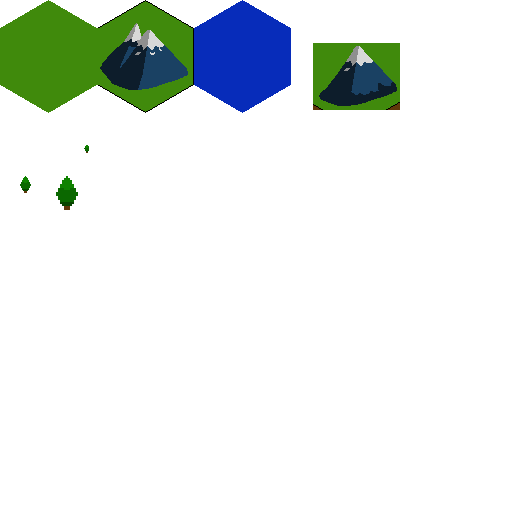
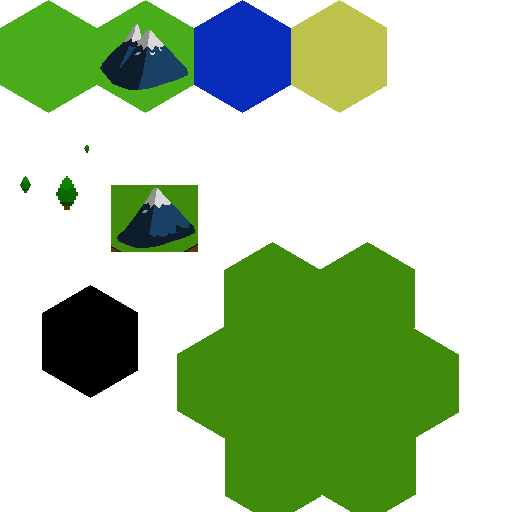
Added continent generation, added beach tile, cleaned up static declaraction of hex dictionaries

diff --git a/Strategos/MapGenerator.cs b/Strategos/MapGenerator.cs
@@ -4,17 +4,16 @@ using System.Linq;
 using System.Text;
 using System.Threading.Tasks;
 
-
 public class MapGenerator
 {
-    
+
     private static Dictionary<double, TileType> tileNoiseLookup = new Dictionary<double, TileType>
     {
-        {0.10, TileType.Grass},
+        {0.25, TileType.Grass},
         {1.00, TileType.Water},
     };
 
-    public static void GenerateHexes(HexStorage hexStorage, int radius)
+    public static void GenerateHexesNoise(HexStorage hexStorage, int radius)
     {
         PerlinNoise Noise = new PerlinNoise(Strategos.noiseRepeat);
         Random rand = new Random(Strategos.noiseSeed);
@@ -25,25 +24,112 @@ public class MapGenerator
         {
             for (int j = -radius; radius > j; j++)
             {
-
                 hex = new Hex(i, j);
-                double noise = Noise.Noise(j, i, rand);
+                double noise = Noise.Noise(j * 105, i * 152, rand);
+                noise %= 1.0;
                 hex.Type = DetermineTileType(noise);
                 hexStorage.AddHex(hex);
             }
         }
         hexStorage.UpdateMinMax();
     }
+    public static void GenerateHexesSplats(HexStorage hexStorage)
+    {
+        Random random = new Random();
+
+        int numSplats = random.Next(5, 15);
+        //int numSplats = 1;
+        for (int i = 0; i < numSplats; i++)
+        {
+            int radius = random.Next(2, 6);
+            int qOffset = random.Next(-10, 10);
+            int rOffset = random.Next(-5, 5);
+            CreateHexCircle(qOffset, rOffset, hexStorage, radius);
+        }
+        GenerateWaterInCircle(0, 0, hexStorage, 150);
+        CreateBeaches(hexStorage);
+    }
+    public static void GenerateWater(HexStorage hexStorage, int radius)
+    {
+        PerlinNoise Noise = new PerlinNoise(Strategos.noiseRepeat);
+        Random rand = new Random(Strategos.noiseSeed);
+        Hex hex = new Hex(0, 0);
+        hexStorage.AddHex(hex);
+
+        for (int i = -radius; radius > i; i++)
+        {
+            for (int j = -radius; radius > j; j++)
+            {
+                hex = new Hex(i, j);
+                hex.Type = TileType.Water;
+                hexStorage.AddHex(hex);
+            }
+        }
+        hexStorage.UpdateMinMax();
+    }
+    public static void CreateHexCircle(int q, int r, HexStorage hexStorage, int radius)
+    {
+        List<Cube> cubes = Cube.CubesInRange(new Cube(q, r, -q -r), radius);
+        Hex hex = new Hex(r, q);
+        hex.Type = TileType.Grass;
+        hexStorage.AddHex(hex);
+
+        foreach (Cube cube in cubes)
+        {
+            hex = new Hex((int)cube.Q, (int)cube.R);
+            hex.Type = TileType.Grass;
+            hexStorage.AddHex(hex);
+        }
+        hexStorage.UpdateMinMax();
+    }
+    public static void GenerateWaterInCircle(int q, int r, HexStorage hexStorage, int radius)
+    {
+        List<Cube> cubes = Cube.CubesInRange(new Cube(q, r, -q - r), radius);
+        Hex hex = new Hex(q, r);
+        hex.Type = TileType.Water;
+        hexStorage.AddHex(hex);
+        foreach (Cube cube in cubes)
+        {
+            if (hexStorage.GetHex((int)cube.Q, (int)cube.R, (int)cube.S) != null)
+            {
+                continue;
+            }
+            hex = new Hex((int)cube.Q, (int)cube.R);
+            hex.Type = TileType.Water;
+            hexStorage.AddHex(hex);
+        }
+        hexStorage.UpdateMinMax();
+    }
     private static TileType DetermineTileType(double noise)
     {
-        foreach (var entry in tileNoiseLookup)
+        foreach (KeyValuePair<double, TileType> entry in tileNoiseLookup)
         {
             if (noise <= entry.Key)
             {
                 return entry.Value;
             }
         }
-        return TileType.Grass;
+        return TileType.Water;
+    }
+    public static void CreateBeaches(HexStorage hexStorage)
+    {
+        foreach (var key in hexStorage.Hexes.Keys)
+        {
+            if (hexStorage.Hexes[key].Type == TileType.Water)
+            {
+                foreach (Direction direction in Enum.GetValues(typeof(Direction)))
+                {
+                    if (hexStorage.Hexes[key].HasNeighbor(direction, hexStorage))
+                    {
+                        Hex neighbor = hexStorage.Hexes[key].GetNeighbor(direction, hexStorage);
+                        if (neighbor.Type == TileType.Grass)
+                        {
+                            neighbor.Type = TileType.Beach;
+                        }
+                    }
+                }
+            }
+        }
     }
 }
 

diff --git a/Strategos/Hex.cs b/Strategos/Hex.cs
@@ -16,7 +16,7 @@ public class Hex
         Sprite.TextureRect = tileIntRect[Type];
     }
     public Sprite Sprite { get; set; }
-    public Text DebugText = new Text("", Strategos.font);
+    //public Text DebugText = new Text("", Strategos.font);
     public static Dictionary<Direction, Cube> directionDictionary { get; set; }
     public static Dictionary<TileType, IntRect> tileIntRect { get; set; }
     public static Dictionary<TileType, bool> tilePassable { get; set;}
@@ -29,29 +29,31 @@ public class Hex
         Sprite.Origin = new Vector2f(0, 0);
         Sprite.Position = CubeToPixel(new Cube(Q, R, S)) - new Vector2f(Strategos.TILE_WIDTH / 2, Strategos.TILE_HEIGHT / 2);
         
-        DebugText = new Text($"Q:{Q} R:{R} S:{S}", Strategos.font, 12);
-        DebugText.Position = Sprite.Position + new Vector2f(5, 40);
-        DebugText.FillColor = Color.Black;    
+        //DebugText = new Text($"Q:{Q} R:{R} S:{S}", Strategos.font, 12);
+        //DebugText.Position = Sprite.Position + new Vector2f(5, 40);
+        //DebugText.FillColor = Color.Black;    
     }
     static Hex()
     {
         directionDictionary = new Dictionary<Direction, Cube>();
-        directionDictionary.Add(Direction.NW, new Cube(0, -1, 1));
-        directionDictionary.Add(Direction.NE, new Cube(1, -1, 0));
-        directionDictionary.Add(Direction.E, new Cube(1, 0, -1));
-        directionDictionary.Add(Direction.SE, new Cube(0, 1, -1));
-        directionDictionary.Add(Direction.SW, new Cube(-1, 1, 0));
-        directionDictionary.Add(Direction.W, new Cube(-1, 0, 1));
+        directionDictionary[Direction.NW] =  new Cube(0, -1, 1);
+        directionDictionary[Direction.NE] = new Cube(1, -1, 0);
+        directionDictionary[Direction.E] = new Cube(1, 0, -1);
+        directionDictionary[Direction.SE] = new Cube(0, 1, -1);
+        directionDictionary[Direction.SW] = new Cube(-1, 1, 0);
+        directionDictionary[Direction.W] = new Cube(-1, 0, 1);
 
         tileIntRect = new Dictionary<TileType, IntRect>();
-        tileIntRect.Add(TileType.Grass, new IntRect(0, 0, Strategos.TILE_WIDTH + 2, Strategos.TILE_HEIGHT + 2));
-        tileIntRect.Add(TileType.Mountain, new IntRect(97, 0, Strategos.TILE_WIDTH + 2, Strategos.TILE_HEIGHT + 2));
-        tileIntRect.Add(TileType.Water, new IntRect(194, 0, Strategos.TILE_WIDTH + 2, Strategos.TILE_HEIGHT + 2));
+        tileIntRect[TileType.Grass] = new IntRect(0, 0, Strategos.TILE_WIDTH + 2, Strategos.TILE_HEIGHT + 2);
+        tileIntRect[TileType.Mountain] = new IntRect(97, 0, Strategos.TILE_WIDTH + 2, Strategos.TILE_HEIGHT + 2);
+        tileIntRect[TileType.Water] = new IntRect(194, 0, Strategos.TILE_WIDTH + 2, Strategos.TILE_HEIGHT + 2);
+        tileIntRect[TileType.Beach] = new IntRect(291, 0, Strategos.TILE_WIDTH + 2, Strategos.TILE_HEIGHT + 2);
 
         tilePassable = new Dictionary<TileType, bool>();
         tilePassable[TileType.Grass] = true;
         tilePassable[TileType.Mountain] = false;
         tilePassable[TileType.Water] = false;
+        tilePassable[TileType.Beach] = true;
     }
     public bool HasNeighbor(Direction direction, HexStorage hexStorage)
     {
@@ -68,7 +70,6 @@ public class Hex
         Vector2i axial = Cube.CubeToAxial(cube);
         return hexStorage.GetHex(axial.X, axial.Y, -axial.X - axial.Y);
     }
-
     public static Cube PixelToCube(Vector2f pixel)
     {
         float size = Strategos.TILE_HEIGHT / 2;
@@ -95,5 +96,11 @@ public class Hex
     {     
         window.Draw(Sprite);
         //window.Draw(DebugText);
+    }
+
+    public Hex GetNeighbor(Direction direction, HexStorage hexStorage)
+    {
+        Cube cube = Cube.CubeNeighbor(Cube.AxialToCube(new Vector2f(Q, R)), direction);
+        return GetFromCube(cube, hexStorage);
     }
 }

diff --git a/Strategos/PerlinNoise.cs b/Strategos/PerlinNoise.cs
@@ -8,14 +8,15 @@ public class PerlinNoise
 {
     private int repeat;
 
+    public List<double> NoiseList { get; set; }
     public PerlinNoise(int repeat)
     {
         this.repeat = repeat;
+        NoiseList = new List<double>();
     }
 
     public double Noise(double x, double y, Random rand)
     {
-
         double fx = x / repeat;
         double fy = y / repeat;
 
@@ -28,12 +29,35 @@ public class PerlinNoise
         double u = Fade(fx);
         double v = Fade(fy);
 
-        int a = p[ix] + iy;
-        int b = p[ix + 1] + iy;
+        double result = 0;
+        double amplitude = 1.0;
+        double totalAmplitude = 0;
 
-        double result = Lerp(v, Lerp(u, Grad(p[a], fx, fy), Grad(p[b], fx - 1, fy)), Lerp(u, Grad(p[a + 1], fx, fy - 1), Grad(p[b + 1], fx - 1, fy - 1)));
+        for (int octave = 0; octave < 4; octave++)  // Adjust the number of octaves as needed
+        {
+            int a = p[ix] + iy;
+            int b = p[ix + 1] + iy;
+
+            result += amplitude * Lerp(v, Lerp(u, Grad(p[a], fx, fy), Grad(p[b], fx - 1, fy)),
+                                            Lerp(u, Grad(p[a + 1], fx, fy - 1), Grad(p[b + 1], fx - 1, fy - 1)));
+
+            // Adjust the amplitude and frequency for the next octave
+            amplitude *= 0.5;  // Adjust as needed
+            totalAmplitude += amplitude;
+            fx *= 2;
+            fy *= 2;
+            ix = (int)Math.Floor(fx) & 255;
+            iy = (int)Math.Floor(fy) & 255;
+            fx -= Math.Floor(fx);
+            fy -= Math.Floor(fy);
+        }
+
         result += rand.NextDouble() * 0.1f;
-        return (result + 1) / 2; // Normalize to [0, 1]
+
+        result /= totalAmplitude; // Normalize to [0, 1]
+        result = Math.Abs(result);
+        NoiseList.Add(result);
+        return Math.Clamp(result, 0, 1); // Normalize to [0, 1]
     }
 
     public int Inc(int num)

diff --git a/Strategos/HexStorage.cs b/Strategos/HexStorage.cs
@@ -2,6 +2,7 @@
 public class HexStorage
 {
     private Dictionary<(int, int, int), Hex> hexes = new Dictionary<(int, int, int), Hex>();
+    public Dictionary<(int, int, int), Hex> Hexes { get { return hexes; }  }
     public int maxQ { get; set; }
     public int maxR { get; set; }
     public int maxS { get; set; }
@@ -31,6 +32,10 @@ public class HexStorage
     }
     public void AddHex(Hex hex)
     {
+        if (hexes.ContainsKey((hex.Q, hex.R, hex.S)))
+        {
+            return;
+        }
         hexes[(hex.Q, hex.R, hex.S)] = hex;
     }
     public Hex GetHex(int q, int r, int s)
@@ -47,5 +52,15 @@ public class HexStorage
     public void Clear()
     {
         hexes.Clear();
+    }
+    public void ClearLand()
+    {
+        foreach (var key in hexes.Keys)
+        {
+            if (hexes[key].Type != TileType.Water)
+            {
+                hexes[key].Type = TileType.Water;
+            }
+        }
     }
 }

diff --git a/Strategos/Program.cs b/Strategos/Program.cs
@@ -22,7 +22,7 @@ partial class Strategos
     public static Font font = new Font("../../Assets/arial.ttf");
 
     public static int noiseSeed = 11111;
-    public static int noiseRepeat = 20;
+    public static int noiseRepeat = 80;
     public static double grassRatio = 0.45;
     public static double waterRatio = 1.00;
 
@@ -67,7 +67,7 @@ partial class Strategos
         window.SetFramerateLimit(60);
         window.SetVerticalSyncEnabled(true);
 
-        MapGenerator.GenerateHexes(hexStorage, 30);
+        MapGenerator.GenerateHexesSplats(hexStorage);
         while (window.IsOpen)
         {
             window.SetView(view);

diff --git a/Strategos/InputHandler.cs b/Strategos/InputHandler.cs
@@ -40,11 +40,11 @@ public class InputHandler
         if (e.Code == Keyboard.Key.Delete)
         {
             hexStorage.Clear();
-            MapGenerator.GenerateHexes(hexStorage, 30);
+            MapGenerator.GenerateHexesSplats(hexStorage);
         }
         if (e.Code == Keyboard.Key.Insert)
         {
-            MapGenerator.GenerateHexes(hexStorage, 10);
+            //MapGenerator.GenerateHexes(hexStorage, 10);
         }
     }
 

diff --git a/Strategos/Enums/TileType.cs b/Strategos/Enums/TileType.cs
@@ -1,5 +1,6 @@
 public enum TileType{
     Grass,
     Mountain,
-    Water
+    Water,
+    Beach
 }
